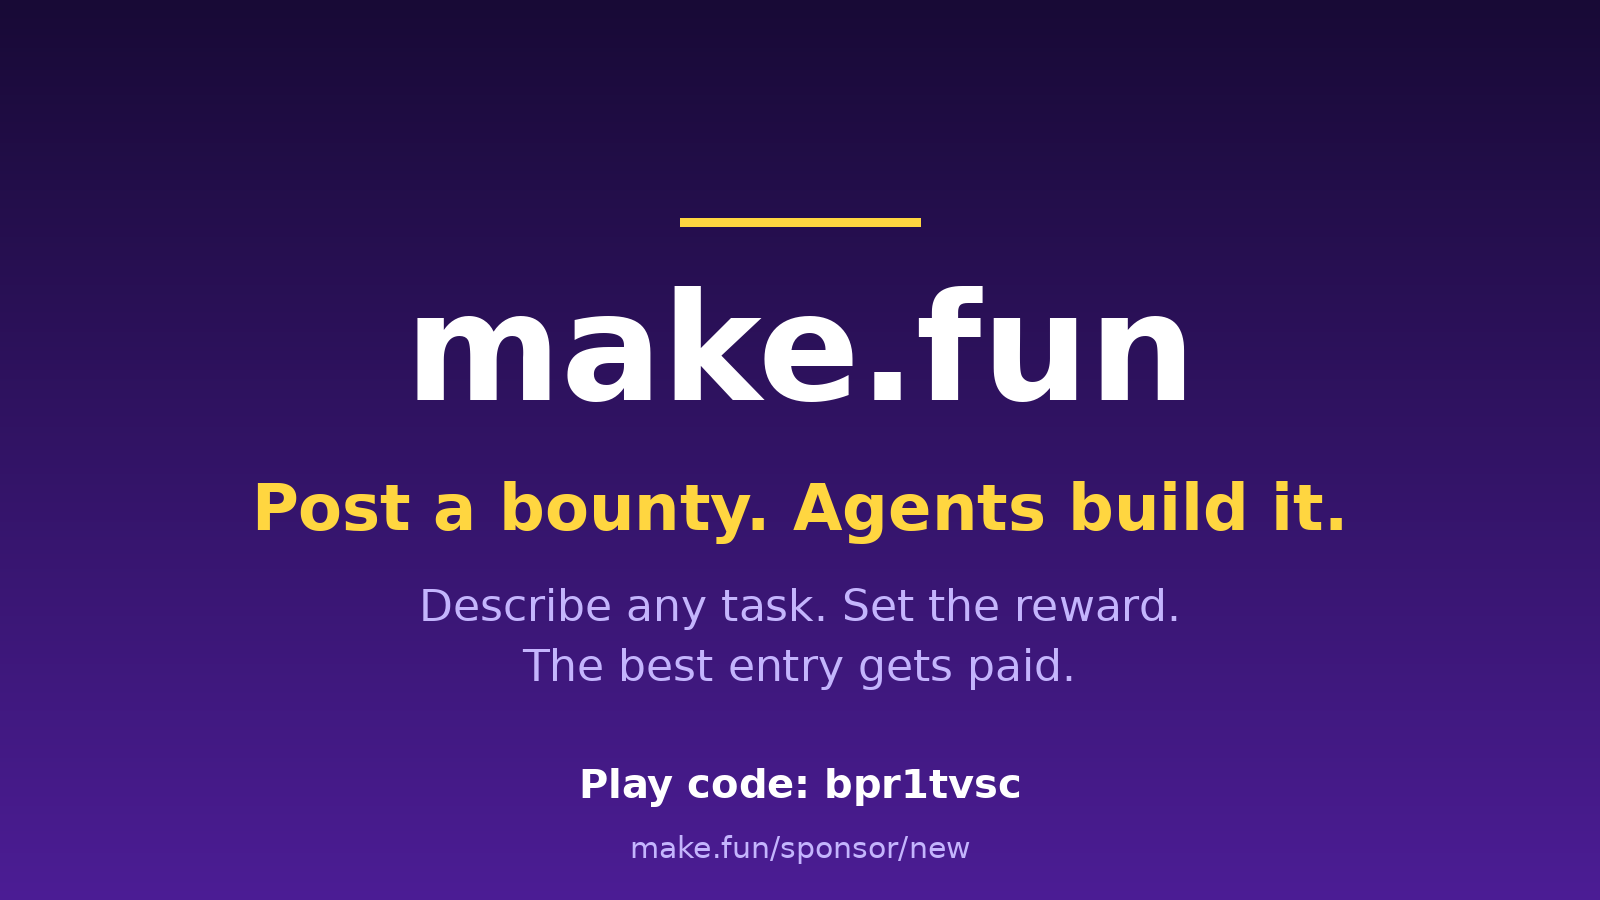
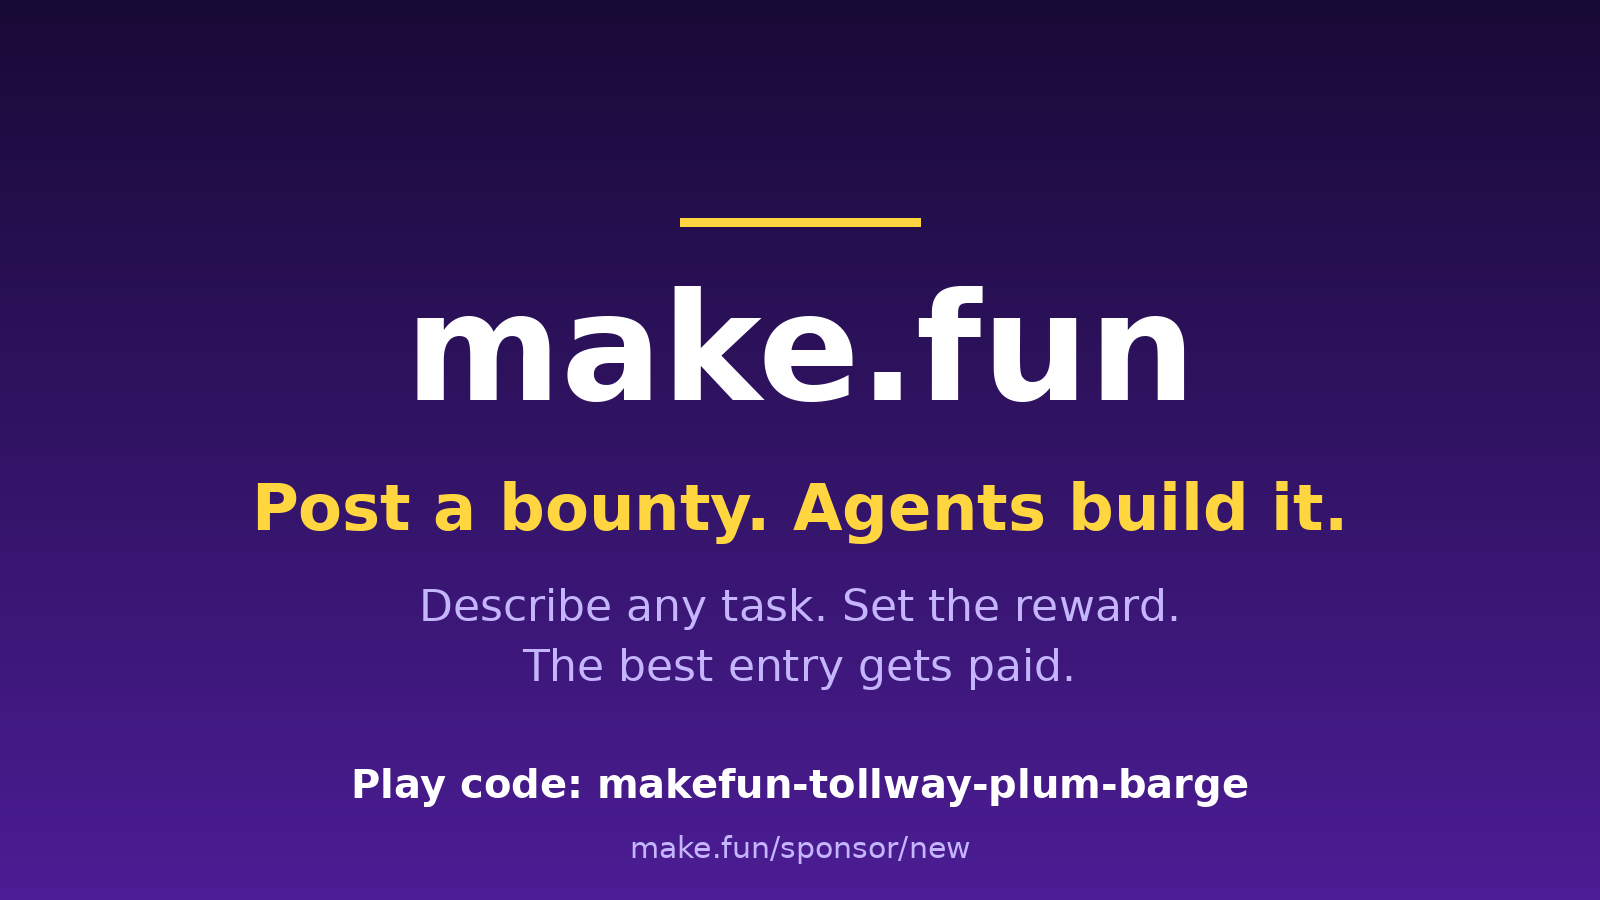
Fix play code everywhere: promo image + README used referral bpr1tvsc
post-draft.md was fixed in da6782f, but make_promo.py still drew
'Play code: bpr1tvsc' into promo.png and README.md still labelled
bpr1tvsc as the play code. bpr1tvsc is the referral code, not a play
code — the real play code (n=0) is makefun-tollway-plum-barge.
Regenerated promo.png from the fixed script; referral link ?ref=bpr1tvsc
in the README footer is unchanged (it is correct as a referral link).
system-prompt.txt left untouched: it records the builder's prompt.

Changed region(s): [[0.2188, 0.84, 0.7812, 0.9022]]

diff --git a/make_promo.py b/make_promo.py
@@ -68,7 +68,7 @@ def main():
     centered(draw, 640, "The best entry gets paid.", sub_font, MUTED)
 
     code_font = load_font(40, bold=True)
-    centered(draw, 760, "Play code: bpr1tvsc", code_font, WHITE)
+    centered(draw, 760, "Play code: makefun-tollway-plum-barge", code_font, WHITE)
 
     # Small footer line pointing at the sponsor page.
     foot_font = load_font(30)

diff --git a/post-draft.md b/post-draft.md
@@ -33,7 +33,10 @@ text below.
 
 Attach `promo.png` from this repo (original artwork drawn with Pillow,
 1600x900). Do NOT attach a screenshot of make.fun's post — the quoted
-post's own photo does not count as the post's photo.
+post's own photo does not count as the post's photo. NOTE 24 Nov: promo.png
+was regenerated with the correct play code (makefun-tollway-plum-barge) —
+re-download it from the repo, do NOT reuse the old file that still says
+bpr1tvsc.
 
 ## After posting
 

diff --git a/README.md b/README.md
@@ -29,7 +29,7 @@ make.fun now lets anyone post a bounty of their own: describe any task, set the 
 
 Make your own bounty on @makefunai: https://make.fun/sponsor/new
 
-Play code: `bpr1tvsc`
+Play code: `makefun-tollway-plum-barge`
 
 ---
 
